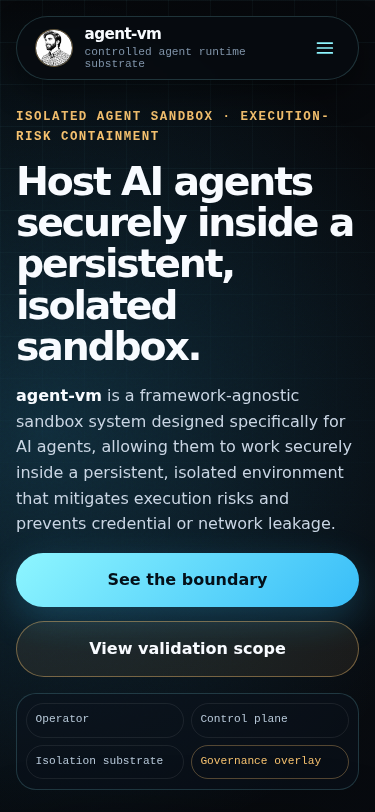
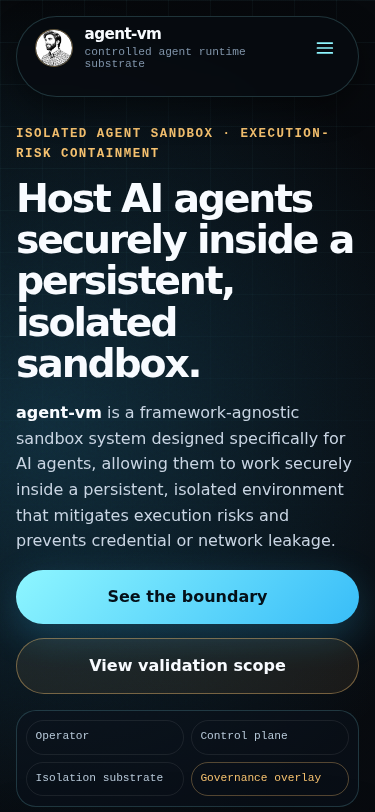
perf: optimize and smooth mobile navigation menu transition performance
- Replace `display: none` to `display: flex` popping on `.nav-links` with a highly optimized, GPU-accelerated transition on `max-height`, `opacity`, `margin-top`, and `padding-top`.
- Retain `display: flex` continuously on mobile `.nav-links` inside media query, using `max-height: 0` and `overflow: hidden` for closed states to allow buttery-smooth browser animation frames.
- Replace `transition: all ...` on mobile `.site-header` with focused, layout-independent transition rules for `background-color`, `border-radius`, and `box-shadow` to minimize browser layout-paint overhead on expand/collapse.
- Refresh re-rendered viewport screenshots using headless Chromium.

Session-ID: 25631
Audit-Reference: site/styles.css

diff --git a/site/styles.css b/site/styles.css
@@ -1040,7 +1040,9 @@ code {
     backdrop-filter: blur(18px);
     -webkit-backdrop-filter: blur(18px);
     box-shadow: 0 12px 32px rgba(0, 0, 0, 0.4);
-    transition: all 0.3s cubic-bezier(0.16, 1, 0.3, 1);
+    transition: background-color 0.3s cubic-bezier(0.16, 1, 0.3, 1),
+                border-radius 0.3s cubic-bezier(0.16, 1, 0.3, 1),
+                box-shadow 0.3s cubic-bezier(0.16, 1, 0.3, 1);
   }
 
   .header-main-row {
@@ -1100,16 +1102,21 @@ code {
 
   /* Dropdown Nav Links on Mobile */
   .nav-links {
-    display: none;
+    display: flex;
     flex-direction: column;
     width: 100%;
     gap: 0.35rem;
+    max-height: 0;
+    opacity: 0;
+    overflow: hidden;
     margin-top: 0;
     padding-top: 0;
-    border-top: none;
-    opacity: 0;
-    transform: translateY(-8px);
-    transition: opacity 0.3s, transform 0.3s;
+    border-top: 1px solid transparent;
+    transition: max-height 0.35s cubic-bezier(0.16, 1, 0.3, 1),
+                opacity 0.25s ease,
+                margin-top 0.35s cubic-bezier(0.16, 1, 0.3, 1),
+                padding-top 0.35s cubic-bezier(0.16, 1, 0.3, 1),
+                border-color 0.35s ease;
   }
 
   .site-header.menu-open {
@@ -1118,9 +1125,8 @@ code {
   }
 
   .site-header.menu-open .nav-links {
-    display: flex;
+    max-height: 250px;
     opacity: 1;
-    transform: translateY(0);
     margin-top: 0.6rem;
     padding-top: 0.6rem;
     border-top: 1px solid rgba(142, 246, 255, 0.1);